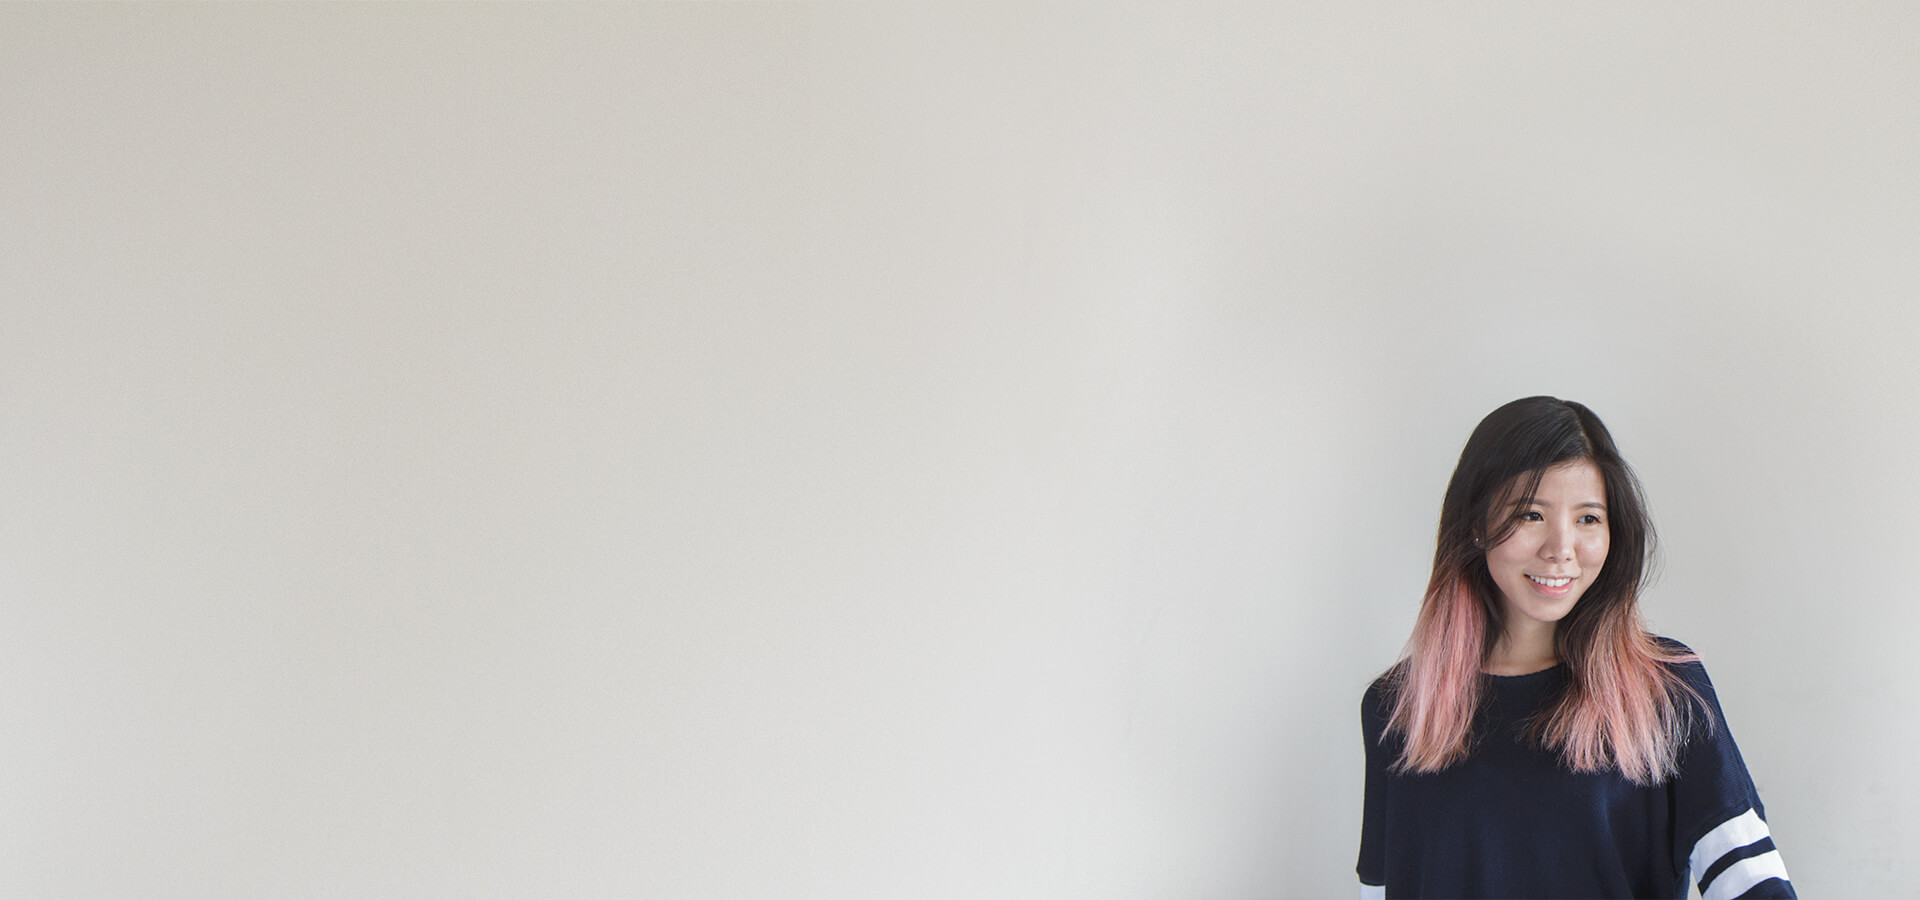
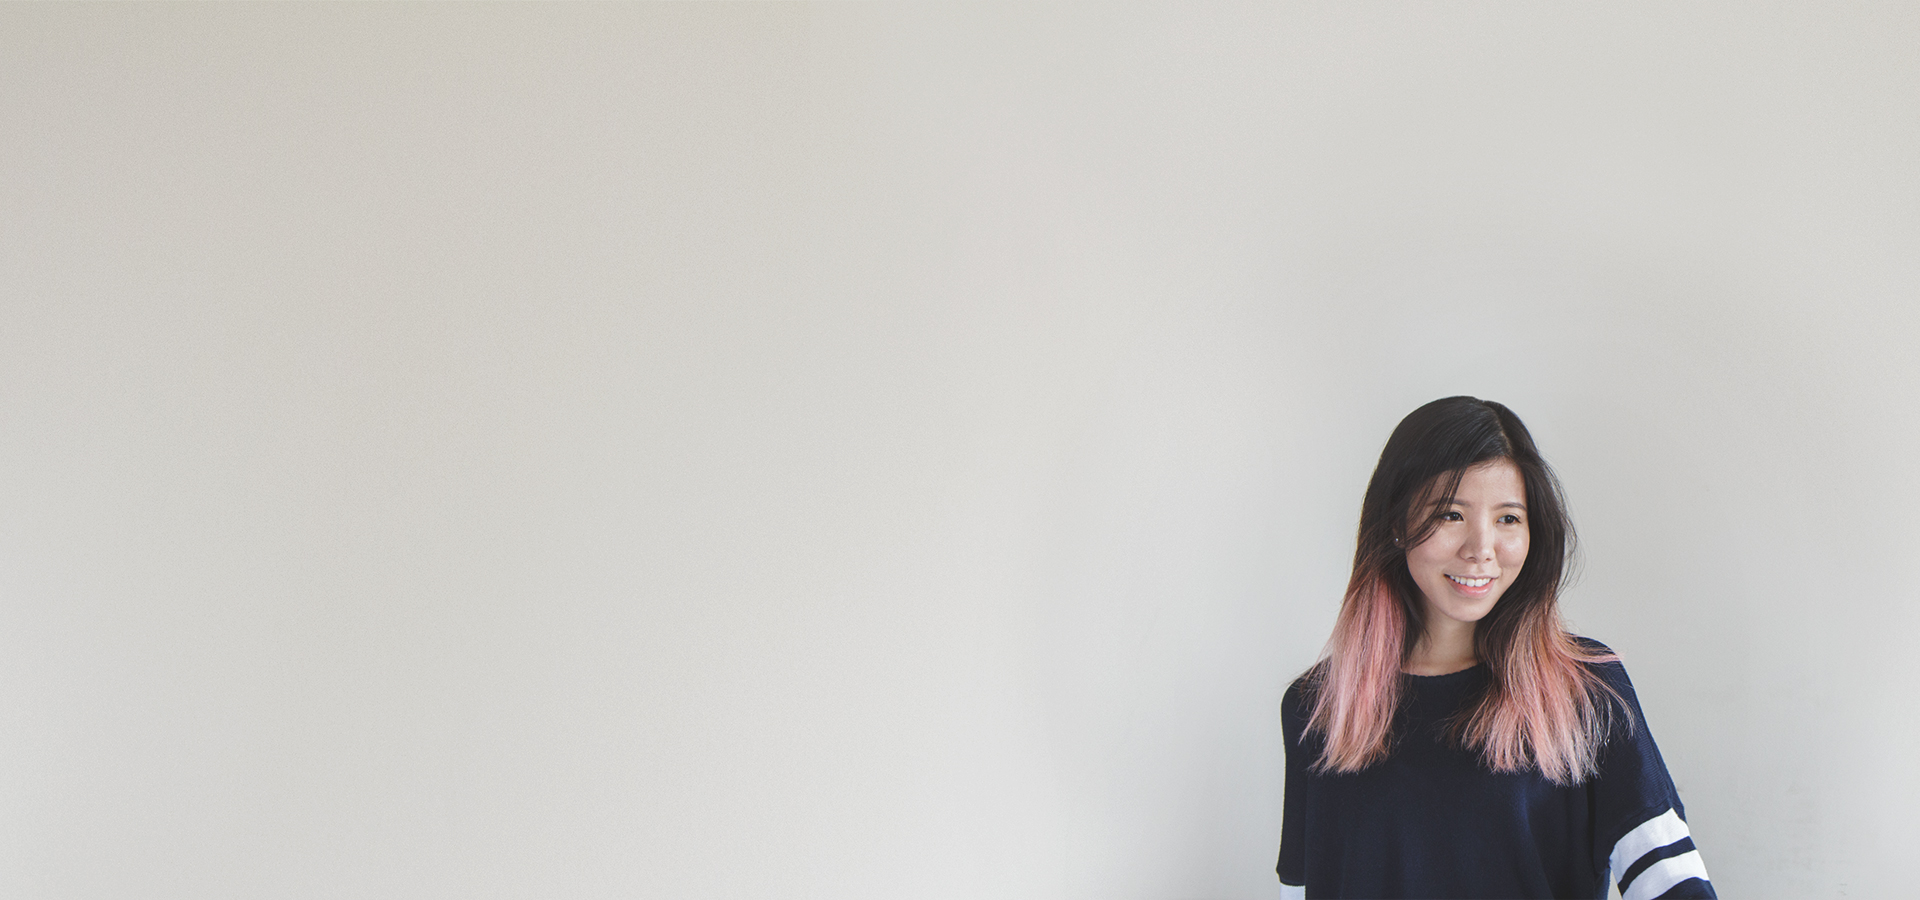
hero break points

Changed region(s): [[0.6562, 0.4356, 0.9375, 1.0]]

diff --git a/dist/css/site.css b/dist/css/site.css
@@ -6919,7 +6919,7 @@ body {
       padding: 0 15px; } }
   @media screen and (min-width: 40em) and (max-width: 63.9375em) {
     .intro {
-      padding-top: 150px; } }
+      padding-top: 80px; } }
   @media screen and (min-width: 64em) {
     .intro {
       padding-top: 190px; } }

diff --git a/src/scss/_custom.scss b/src/scss/_custom.scss
@@ -55,7 +55,7 @@ max-width: 100rem;
   }
       /*/ medium /*/
     @media screen and (min-width: 40em) and (max-width: 63.9375em) {
-      padding-top: 150px;
+      padding-top: 80px;
     }
       /*/ large /*/
     @media screen and (min-width: 64em) {
